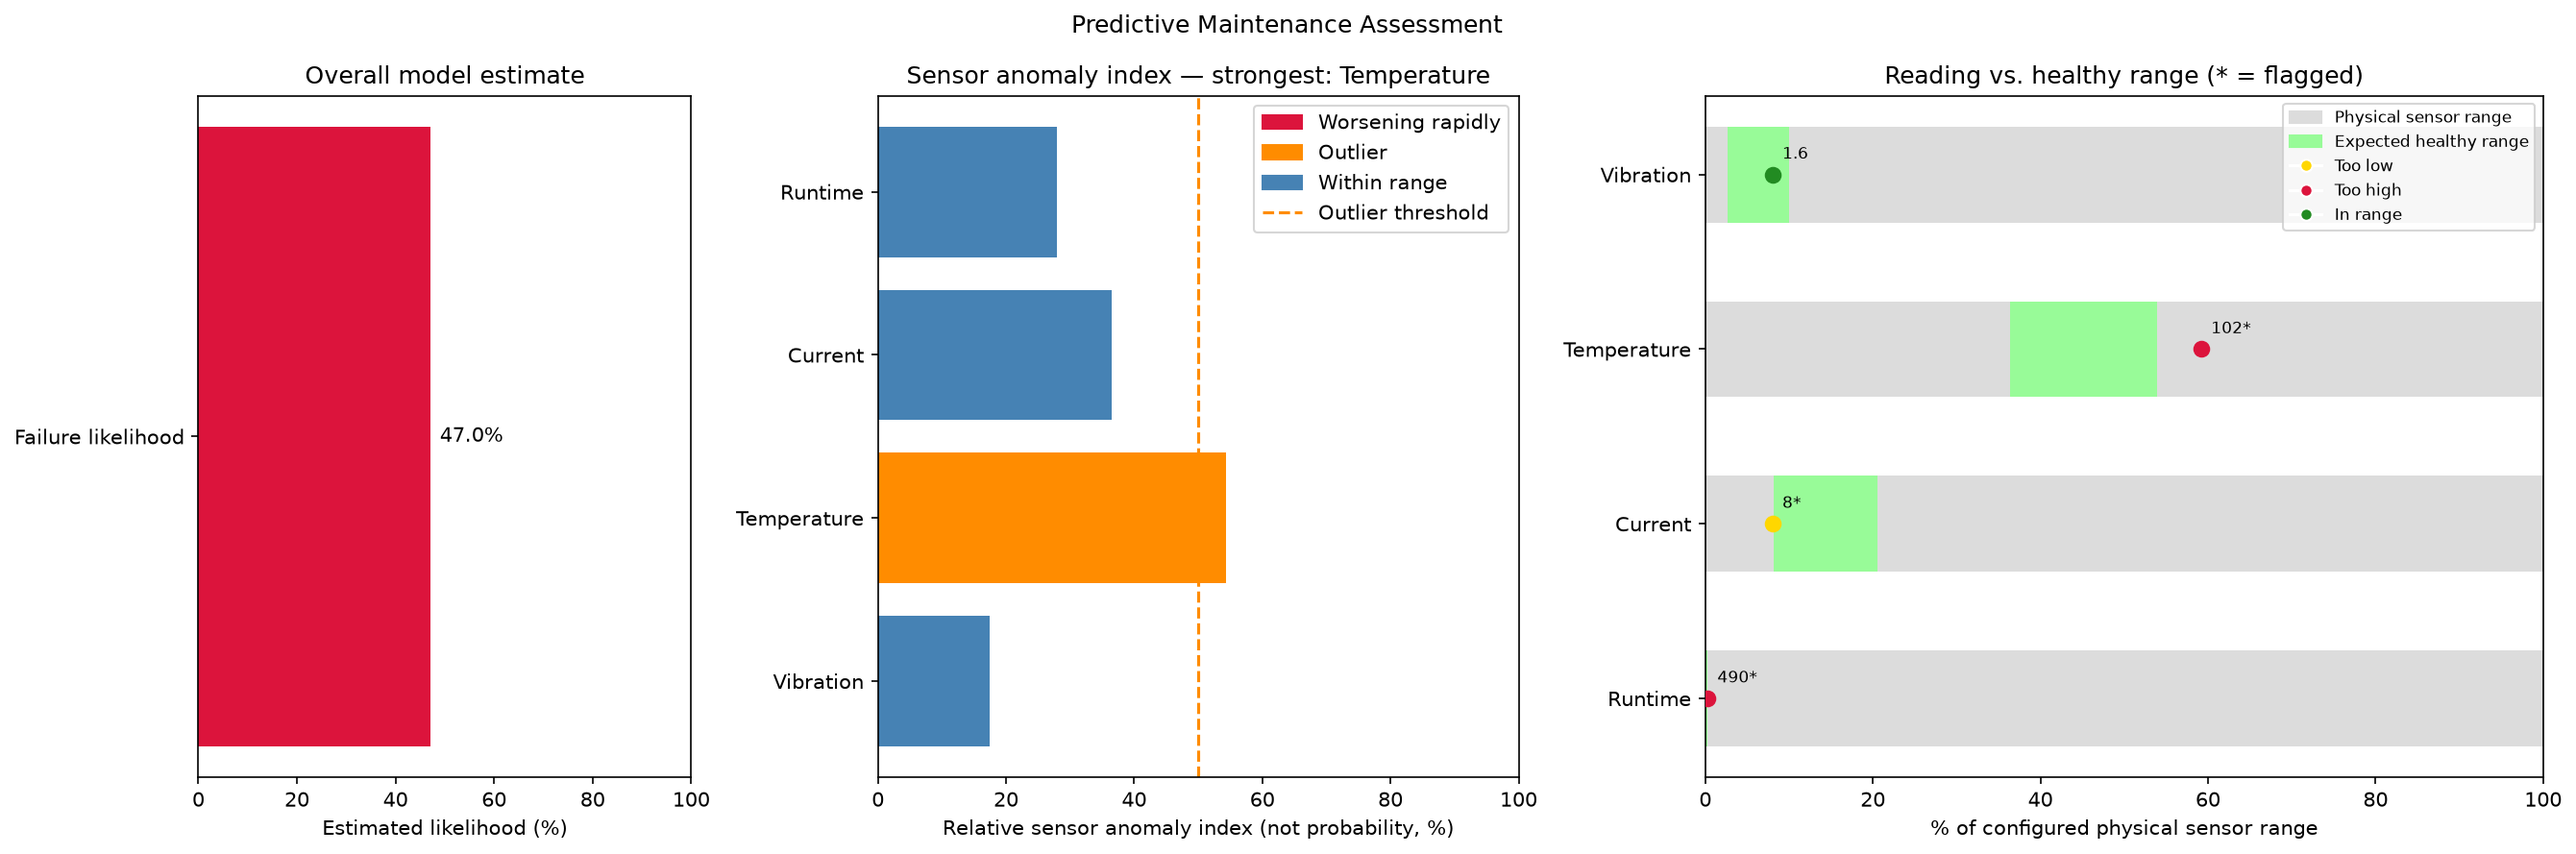
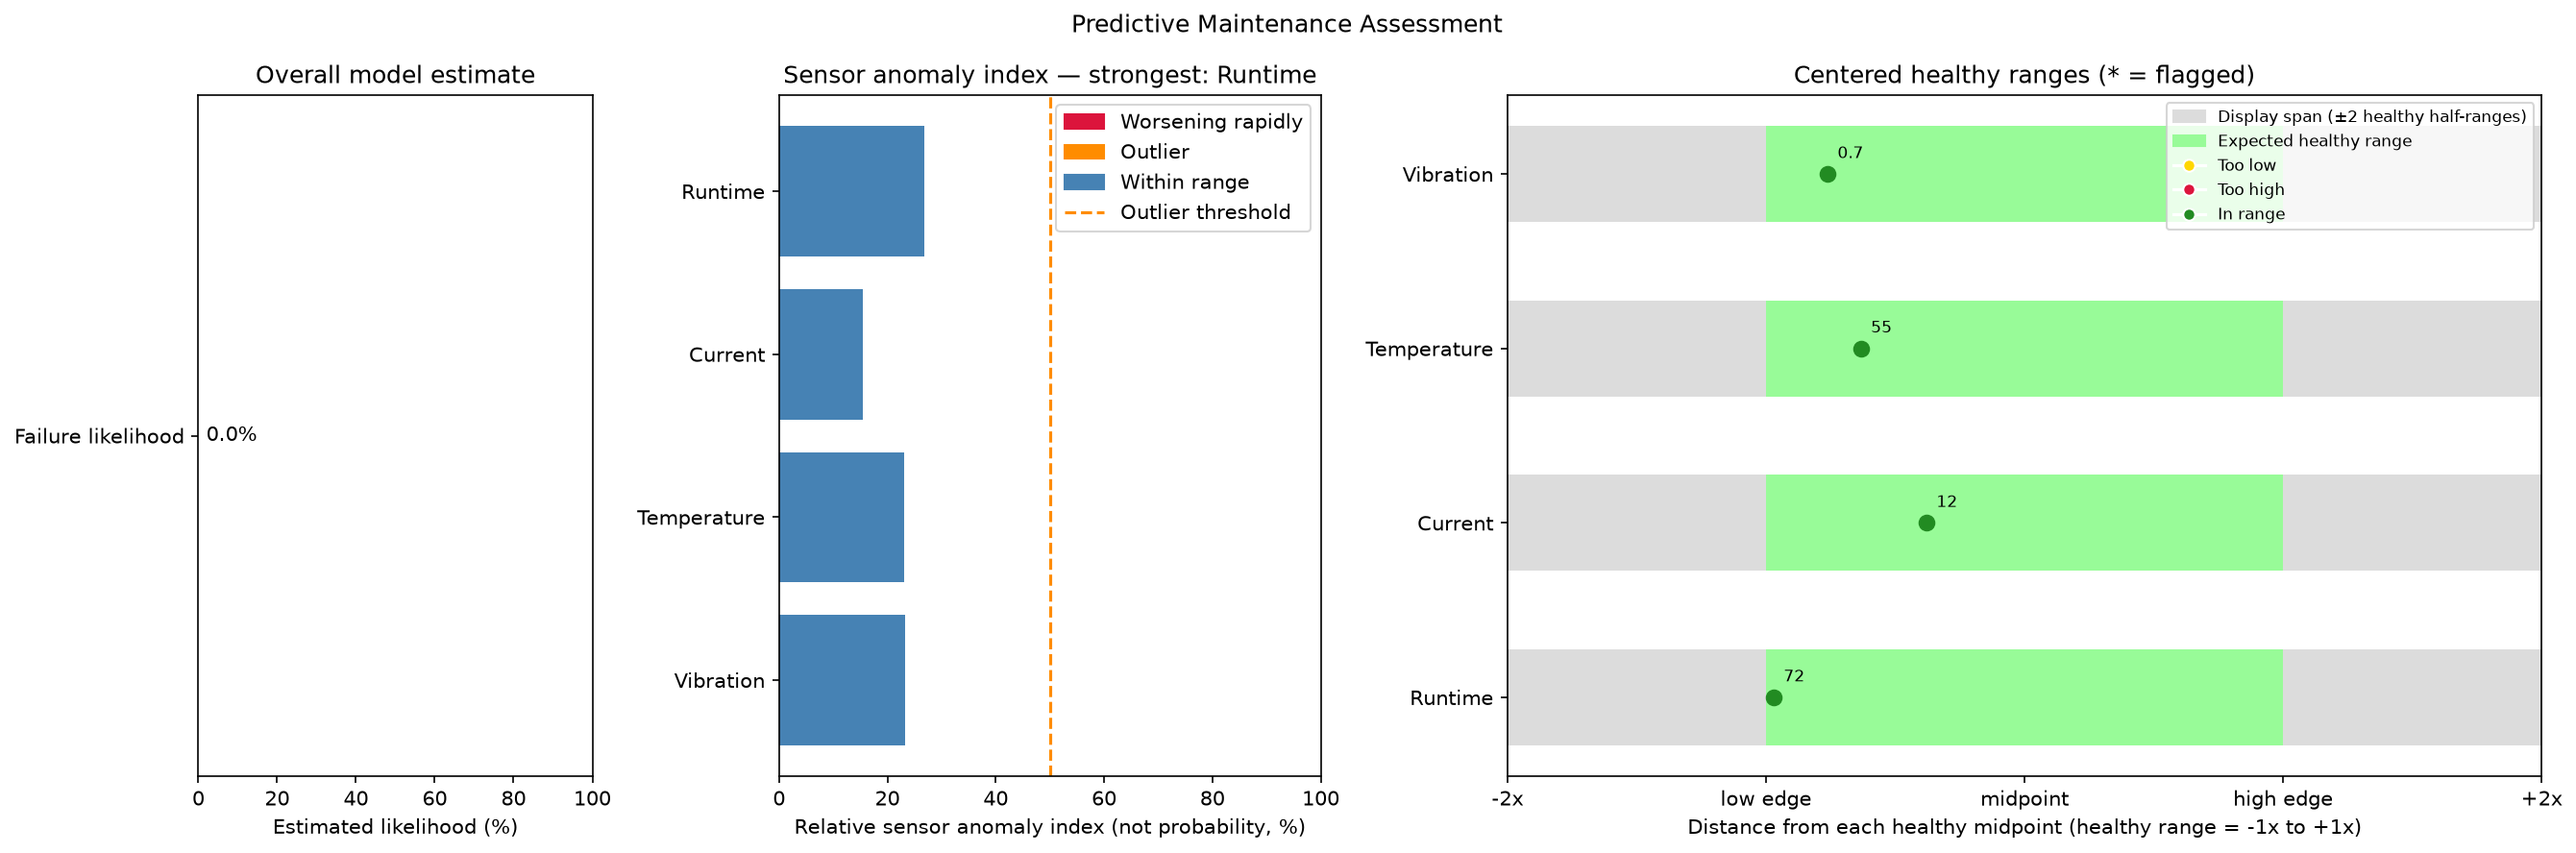
Fixed the chart, and improved diagnostics

diff --git a/predictive_maintenance.py b/predictive_maintenance.py
@@ -1,14 +1,21 @@
-import numpy as np
-import matplotlib.pyplot as plt
 from dataclasses import dataclass
+from datetime import datetime, timezone
+import json
+from pathlib import Path
+
+import matplotlib.pyplot as plt
 from matplotlib.lines import Line2D
 from matplotlib.patches import Patch
+import numpy as np
 from sklearn.ensemble import RandomForestClassifier
 from sklearn.impute import SimpleImputer
 from sklearn.metrics import accuracy_score, classification_report, confusion_matrix
 from sklearn.model_selection import train_test_split
 from sklearn.pipeline import Pipeline
 from sklearn.preprocessing import StandardScaler
+
+
+AUDIT_LOG_PATH = Path(__file__).with_name("maintenance_history.jsonl")
 
 
 @dataclass
@@ -103,6 +110,7 @@ class PredictiveMaintenanceModel:
     """Train a classifier to predict machine failure risk."""
 
     FEATURE_NAMES = ("Vibration", "Temperature", "Current", "Runtime")
+    HEALTH_WEIGHTS = np.array([1.5, 1.5, 1.25, 0.75])
 
     def __init__(self):
         self.model = Pipeline(
@@ -152,8 +160,18 @@ class PredictiveMaintenanceModel:
         return np.abs((imputed[0] - self.normal_mean) / self.normal_std)
 
     def health_score(self, anomaly_scores: np.ndarray) -> float:
-        """Map the average absolute sensor deviation to a simple 0–100 score."""
-        return float(100 / (1 + np.mean(anomaly_scores)))
+        """Return a weighted 0–100 score from standardized sensor deviations."""
+        scores = np.asarray(anomaly_scores, dtype=float).reshape(-1)
+        if (
+            scores.size != len(self.FEATURE_NAMES)
+            or not np.all(np.isfinite(scores))
+            or np.any(scores < 0)
+        ):
+            raise ValueError(
+                "Health scoring requires one finite, non-negative anomaly score per sensor."
+            )
+        weighted_deviation = np.average(scores, weights=self.HEALTH_WEIGHTS)
+        return float(100 / (1 + weighted_deviation))
 
     def expected_range(self, sensor_index: int) -> tuple[float, float]:
         """Return the central 95% range observed for a healthy sensor."""
@@ -249,7 +267,7 @@ class PredictiveMaintenanceModel:
         chart_threshold = min(outlier_threshold / 6.0, 1.0) * 100
 
         figure, (probability_axis, sensor_axis, range_axis) = plt.subplots(
-            1, 3, figsize=(18, 6), gridspec_kw={"width_ratios": [1, 1.3, 1.7]}
+            1, 3, figsize=(18, 6), gridspec_kw={"width_ratios": [0.8, 1.1, 2.1]}
         )
         probability_axis.barh(["Failure likelihood"], [probability * 100], color="crimson")
         probability_axis.set_xlim(0, 100)
@@ -280,44 +298,53 @@ class PredictiveMaintenanceModel:
             if value < sensor_limits[index][0] or value > sensor_limits[index][1]
         }
         for index, (value, status) in enumerate(zip(reading.reshape(-1), statuses)):
-            minimum, maximum = sensor_limits[index]
             lower, upper = self.expected_range(index)
-            expected_start = np.clip((lower - minimum) / (maximum - minimum) * 100, 0, 100)
-            expected_end = np.clip((upper - minimum) / (maximum - minimum) * 100, 0, 100)
-            position = np.clip((value - minimum) / (maximum - minimum) * 100, 0, 100)
-            range_axis.barh(index, 100, color="gainsboro", height=0.55)
-            range_axis.barh(
-                index,
-                expected_end - expected_start,
-                left=expected_start,
-                color="palegreen",
-                height=0.55,
-            )
+            midpoint = (lower + upper) / 2
+            half_width = (upper - lower) / 2
+            if half_width == 0:
+                half_width = self.normal_std[index]
+            position = (value - midpoint) / half_width
+            visible_position = np.clip(position, -2, 2)
             marker_color = {
                 "low": "gold",
                 "high": "crimson",
                 "normal": "forestgreen",
             }[status]
-            range_axis.scatter(position, index, color=marker_color, s=55, zorder=3)
+            range_axis.barh(index, 4, left=-2, color="gainsboro", height=0.55)
+            range_axis.barh(index, 2, left=-1, color="palegreen", height=0.55)
+            range_axis.scatter(
+                visible_position,
+                index,
+                color=marker_color,
+                marker=">" if position > 2 else "<" if position < -2 else "o",
+                s=55,
+                zorder=3,
+            )
             marker = index in out_of_range or status != "normal"
             marker_label = f"{value:g}{'*' if marker else ''}"
             range_axis.annotate(
                 marker_label,
-                (position, index),
-                xytext=(5 if position < 90 else -5, 8),
+                (visible_position, index),
+                xytext=(5 if visible_position < 1.7 else -5, 8),
                 textcoords="offset points",
-                ha="left" if position < 90 else "right",
+                ha="left" if visible_position < 1.7 else "right",
                 fontsize=8,
             )
 
         range_axis.set_yticks(range(len(self.FEATURE_NAMES)))
         range_axis.set_yticklabels(self.FEATURE_NAMES)
         range_axis.invert_yaxis()
-        range_axis.set_xlim(0, 100)
-        range_axis.set_xlabel("% of configured physical sensor range")
-        range_axis.set_title("Reading vs. healthy range (* = flagged)")
+        range_axis.set_xlim(-2, 2)
+        range_axis.set_xticks(
+            [-2, -1, 0, 1, 2],
+            ["-2x", "low edge", "midpoint", "high edge", "+2x"],
+        )
+        range_axis.set_xlabel(
+            "Distance from each healthy midpoint (healthy range = -1x to +1x)"
+        )
+        range_axis.set_title("Centered healthy ranges (* = flagged)")
         range_axis.legend(handles=[
-            Patch(color="gainsboro", label="Physical sensor range"),
+            Patch(color="gainsboro", label="Display span (±2 healthy half-ranges)"),
             Patch(color="palegreen", label="Expected healthy range"),
             Line2D([0], [0], marker="o", color="w", markerfacecolor="gold", label="Too low"),
             Line2D([0], [0], marker="o", color="w", markerfacecolor="crimson", label="Too high"),
@@ -330,6 +357,77 @@ class PredictiveMaintenanceModel:
         plt.close(figure)
 
         return probability, strongest_sensor, alerts, health
+
+
+def append_audit_record(
+    model: PredictiveMaintenanceModel,
+    reading: np.ndarray,
+    source: str,
+    event: str,
+    alerts: list[str] | None = None,
+    log_path: Path = AUDIT_LOG_PATH,
+) -> None:
+    """Persist a diagnostic snapshot as one JSON Lines audit record."""
+    values = np.asarray(reading, dtype=float).reshape(-1)
+    if values.size != len(model.FEATURE_NAMES) or not np.all(np.isfinite(values)):
+        raise ValueError("Audit logging requires one finite reading per sensor.")
+    anomaly_scores = model.sensor_anomalies(values.reshape(1, -1))
+    record = {
+        "timestamp_utc": datetime.now(timezone.utc).isoformat(),
+        "source": source,
+        "event": event,
+        "sensor_readings": dict(zip(model.FEATURE_NAMES, values.tolist())),
+        "anomaly_scores_standard_deviations": dict(
+            zip(model.FEATURE_NAMES, anomaly_scores.tolist())
+        ),
+        "failure_probability": model.failure_probability(values.reshape(1, -1)),
+        "overall_health": model.health_score(anomaly_scores),
+        "alerts": alerts or [],
+    }
+    try:
+        with log_path.open("a", encoding="utf-8") as audit_file:
+            audit_file.write(json.dumps(record, allow_nan=False) + "\n")
+    except OSError as error:
+        raise OSError(
+            f"Unable to append the audit record to {log_path}: {error}"
+        ) from error
+
+
+def read_audit_history(log_path: Path = AUDIT_LOG_PATH) -> list[dict]:
+    """Load persisted diagnostic records in chronological order."""
+    try:
+        with log_path.open("r", encoding="utf-8") as audit_file:
+            return [json.loads(line) for line in audit_file if line.strip()]
+    except FileNotFoundError:
+        return []
+    except (OSError, json.JSONDecodeError) as error:
+        raise RuntimeError(
+            f"Unable to read audit history from {log_path}: {error}"
+        ) from error
+
+
+def print_audit_history(log_path: Path = AUDIT_LOG_PATH) -> None:
+    """Display persisted diagnostic readings and assessment results."""
+    records = read_audit_history(log_path)
+    if not records:
+        print(f"No audit history found at {log_path}.")
+        return
+    print(f"\nAudit history ({log_path}):")
+    for record in records:
+        readings = ", ".join(
+            f"{name}={value:g}" for name, value in record["sensor_readings"].items()
+        )
+        anomalies = ", ".join(
+            f"{name}={score:.2f}"
+            for name, score in record["anomaly_scores_standard_deviations"].items()
+        )
+        print(
+            f"\n{record['timestamp_utc']} | {record['source']} | {record['event']}\n"
+            f"  Readings: {readings}\n"
+            f"  Anomaly scores (standard deviations): {anomalies}\n"
+            f"  Failure estimate: {record['failure_probability']:.1%} | "
+            f"Health: {record['overall_health']:.1f}/100"
+        )
 
 
 def generate_sensor_data(num_samples: int = 500, failure_rate: float = 0.35) -> tuple[np.ndarray, np.ndarray]:
@@ -462,6 +560,7 @@ def interactive_menu(
 ) -> None:
     """Let the user inspect a sensor, overall health, all metrics, or new readings."""
     sample_interval_hours = 1.0
+    reading_source = "automated"
     while True:
         print("\nChoose what to inspect:")
         for index, name in enumerate(model.FEATURE_NAMES, start=1):
@@ -476,19 +575,27 @@ def interactive_menu(
         print("5. Overall engine health")
         print("6. All metrics and failure chart")
         print("7. Enter new sensor readings")
+        print("8. View audit history")
         print("0. Exit")
 
         choice = input("Selection: ").strip()
         if choice == "0":
             return
         if choice in {"1", "2", "3", "4"}:
+            sensor_index = int(choice) - 1
             print_sensor_reading(
                 model,
                 cleaner,
                 reading,
                 previous_reading,
-                int(choice) - 1,
+                sensor_index,
                 sample_interval_hours,
+            )
+            append_audit_record(
+                model,
+                reading,
+                reading_source,
+                f"sensor_inspection:{model.FEATURE_NAMES[sensor_index]}",
             )
         elif choice == "5":
             issues = cleaner.validate_numeric_reading(reading)
@@ -501,9 +608,11 @@ def interactive_menu(
             health = model.health_score(anomalies)
             print(f"Overall engine health: {health:.1f}/100")
             print(
-                f"Formula: 100 / (1 + average sensor deviation); "
-                f"average deviation is {np.mean(anomalies):.2f} standard deviations."
+                f"Formula: 100 / (1 + weighted mean standardized deviation); "
+                f"weighted deviation is "
+                f"{np.average(anomalies, weights=model.HEALTH_WEIGHTS):.2f}."
             )
+            append_audit_record(model, reading, reading_source, "overall_health")
         elif choice == "6":
             issues = cleaner.validate_numeric_reading(reading)
             previous_issues = cleaner.validate_numeric_reading(previous_reading)
@@ -553,6 +662,13 @@ def interactive_menu(
             else:
                 print("No sensor outliers or rapid deterioration detected.")
             print("Chart saved as failure_assessment.png")
+            append_audit_record(
+                model,
+                reading,
+                reading_source,
+                "all_metrics_assessment",
+                alerts,
+            )
         elif choice == "7":
             print("Enter current readings. Each shows its expected and physical ranges:")
             new_values = []
@@ -604,7 +720,16 @@ def interactive_menu(
             previous_reading = reading
             reading = new_reading
             sample_interval_hours = interval
+            reading_source = "user-entered"
             print(f"Reading updated. Trend interval: {interval:g} hour(s).")
+            append_audit_record(
+                model,
+                reading,
+                reading_source,
+                "manual_reading_entered",
+            )
+        elif choice == "8":
+            print_audit_history()
         else:
             print("Choose one of the listed menu options.")
 
@@ -641,6 +766,12 @@ def main() -> None:
 
     current_reading = np.array([4.8, 118.0, 30.0, 620.0])
     previous_reading = np.array([2.8, 95.0, 22.0, 600.0])
+    append_audit_record(
+        model,
+        current_reading,
+        "automated",
+        "automated_reading",
+    )
     interactive_menu(model, cleaner, current_reading, previous_reading)
 
 

diff --git a/agent.md b/agent.md
@@ -14,10 +14,12 @@ Check for outliers as long as getting rid of duplicates.
 
 Check for impossible reading that are outside of the range of the sensors.
 
-Add in a final overall health score of the engine by taking the average standard deviation of the engine parts and using that to determine overall health.
+Add in a final overall health score of the engine by taking the standard deviation of each engine part's sensor readings and standardizing them into a unified 0 to 100 health index. Because different sensors measure in completely different units and scales (such as temperature in degrees Celsius, vibration in millimeters per second, and current in Amps), raw standard deviations cannot be averaged directly; therefore, use NumPy to transform each metric into a standardized scale or Z-score before calculating a weighted average that assigns higher importance to critical safety components.
 
 Add in a menu that can help choose which reading they would like, along with an option for an overall health reading described above. Also allow the user to enter their own sensor data, but when the user is entering data, make sure there is a range in which the user should expect the sensor to be reading.
 
 If the user gives a number that is impossible to reach, give an error message in which tells the user it is likely an impossible number, but ask if they would like to run anyway, or enter a new number.
 
-If a check is ran that scans everything, prompt the user with information on which item is the reason for the faulure (if any). 
+If a check is ran that scans everything, prompt the user with information on which item is the reason for the faulure (if any).
+
+Add in persistent logging and an audit history that automatically records timestamps, user-entered or automated sensor inputs, anomaly detection scores, and overall engine health ratings into a local log file or data store. This allows operators and technicians to review historical degradation trends, track past diagnostic runs across shifts, and maintain a complete audit trail of machine performance over time.

diff --git a/README.md b/README.md
@@ -12,3 +12,7 @@ There is also the ability to input data manually to calculate results.
 Once the results have finished, there is a visual graph in which the user may use to get a graphical representation of the results.
 
 The expected healthy range for each sensor is estimated from the central 95% of the model's normal training readings and is separate from the configured physical sensor limits. Manual entry displays both ranges; readings outside physical limits require confirmation to analyze, and flagged readings are marked with an asterisk. The all-metrics chart shows the failure estimate, sensor anomalies, and each reading's position relative to its expected healthy range.
+
+The overall health score is based on the weighted mean of each sensor's absolute deviation from its learned normal mean, measured in that sensor's standard deviations. The relative weights for vibration, temperature, current, and runtime are 1.5, 1.5, 1.25, and 0.75. The weighted deviation is mapped to a 0–100 score with `100 / (1 + weighted deviation)`.
+
+Every automated sample, manually entered reading, and requested assessment is appended to `maintenance_history.jsonl` beside the program. Select **8. View audit history** to review timestamps, readings, anomaly scores, failure estimates, and health scores from previous runs. In the range chart, each sensor's healthy interval is centered on the same midpoint and has the same width, so measurements such as runtime remain readable regardless of their physical units or scale.
